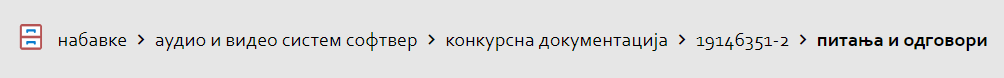
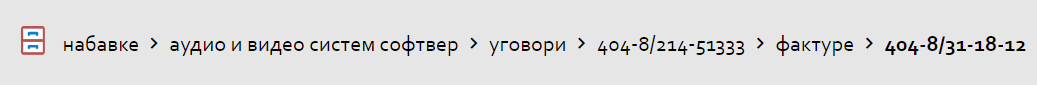
Navigacija images

Changed region(s): [[0.0, 0.3333, 0.988, 0.6667], [0.0, 0.641, 0.0618, 0.6667], [0.0, 0.2821, 0.0618, 0.3077]]

diff --git a/docs/prirucnik/navigacija.rst b/docs/prirucnik/navigacija.rst
@@ -19,17 +19,43 @@ MeOn апликација је пројектована тако да корис
 
 Главни мени представља листа са леве стране екрана. Она садржи ентитете којима корисник може да приступи. Уз помоћ главног менија можемо се на једноставан начин кретати кроз ентитете и видети листе записа ентитета.
 
-.. note::  У самом дну Главног менија имамо икону за смањивање величине менија.
+На сваком од ентитета главног мену-а корисник може добити нотификацију која ће бити приказана као беџ са бројем нотификација. Нотификације ће бити детаљније објашњене у поглављу Пошта.
+
+.. image:: ../_static/img/Navigacija/GavniMenu/GavniMenu2.png
+    :height: 300
+    :align: center
+
+Корисник може кликом на лого или назив компаније увек да се врати на почетну листу ентитета Набавке где год се у апликацији тренутно налази.
+
+.. image:: ../_static/img/Navigacija/GavniMenu/GavniMenu3.png
+    :height: 200
+    :align: center
+
+У самом дну Главног менија постоји икона за смањивање величине менија. Кликом на икону корисник може смањити величину главног мену-а и тиме добити већи преглед радне површине.
+
+.. image:: ../_static/img/Navigacija/GavniMenu/GavniMenu1.png
+    :height: 300
+    :width: 600
+    :align: center
 
 Breadcrumbs
 ===========
 
+Breadcrumbs или мрвице од хлеба на српском, представља још један начин навигације којом корисник може да се креће кроз апликацију.
+
 .. image:: ../_static/img/Navigacija/Bradcrumbs/Breadcrumbs.png
-   :width: 600
+   :width: 700
    :height: 50
    :align: center
 
-Breadcrumbs или мрвице од хлеба на српском, представља још један начин навигације којом корисник може да се креће кроз апликацију.
+На приказаној слици корисник гледа детаље фактуре 404-8/31-18-12 и жели да провери други уговор који постоји на истој набавци.
+
+.. image:: ../_static/img/Navigacija/Bradcrumbs/Breadcrumbs1.png
+   :width: 500
+   :height: 50
+   :align: center
+
+Корисиник може једноставним кликом на "Уговори" у breadcrumbs-у добиће све уговоре исте набавке.
 
 Мени са опцијама
 ================
